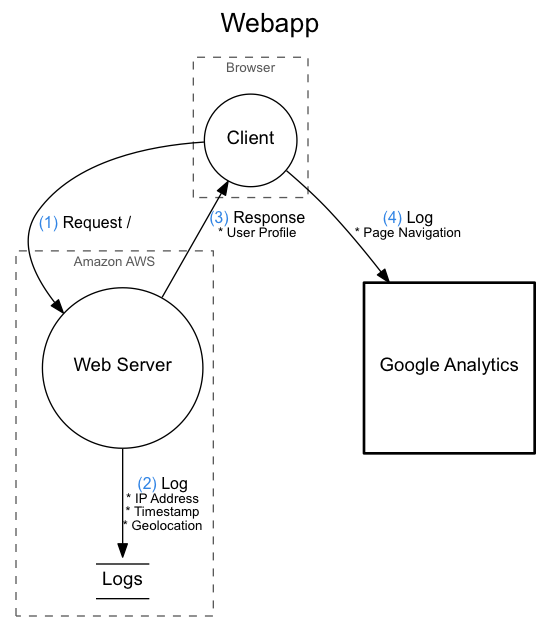
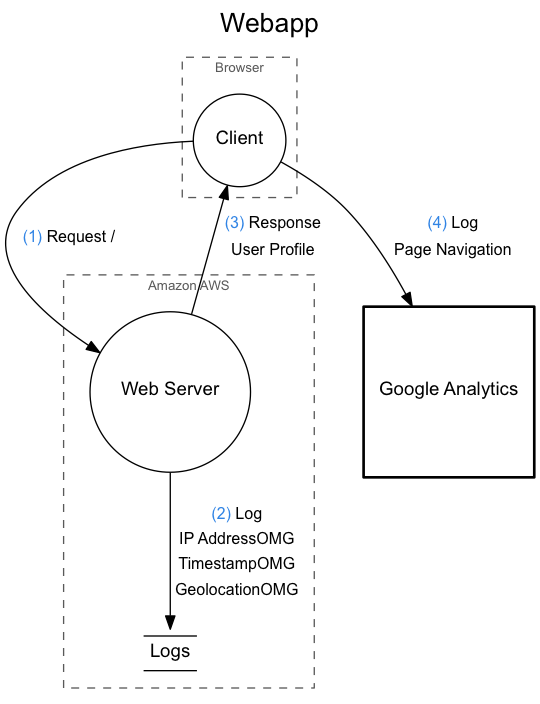
Format operation and data with table in DFD

diff --git a/examples/webapp.html b/examples/webapp.html
@@ -34,9 +34,9 @@
         <h2>Log</h2>
     
     <ul>
-          <li>IP Address</li>
-          <li>Timestamp</li>
-          <li>Geolocation</li>
+          <li>IP Address&lt;sub&gt;OMG&lt;/sub&gt;</li>
+          <li>Timestamp&lt;sub&gt;OMG&lt;/sub&gt;</li>
+          <li>Geolocation&lt;sub&gt;OMG&lt;/sub&gt;</li>
         </ul>
 
         <p>Logged to a ELK stack.</p>
